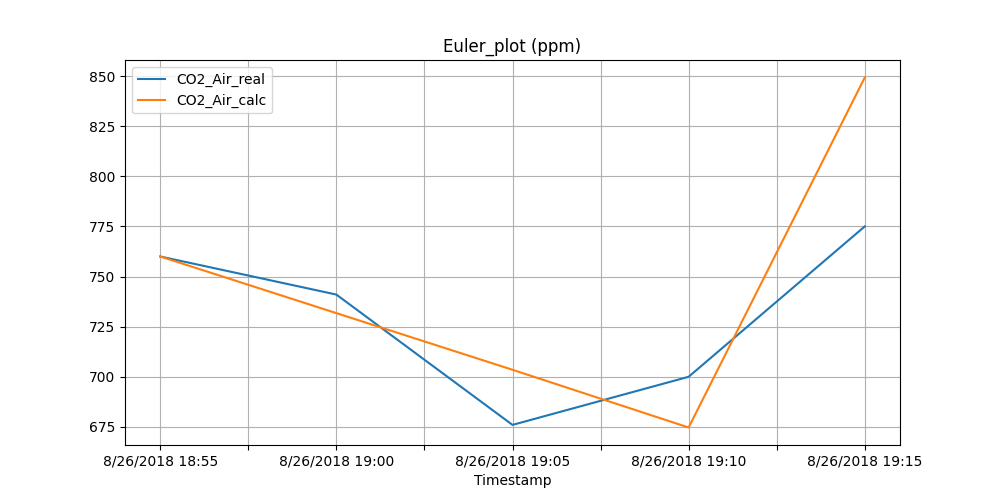
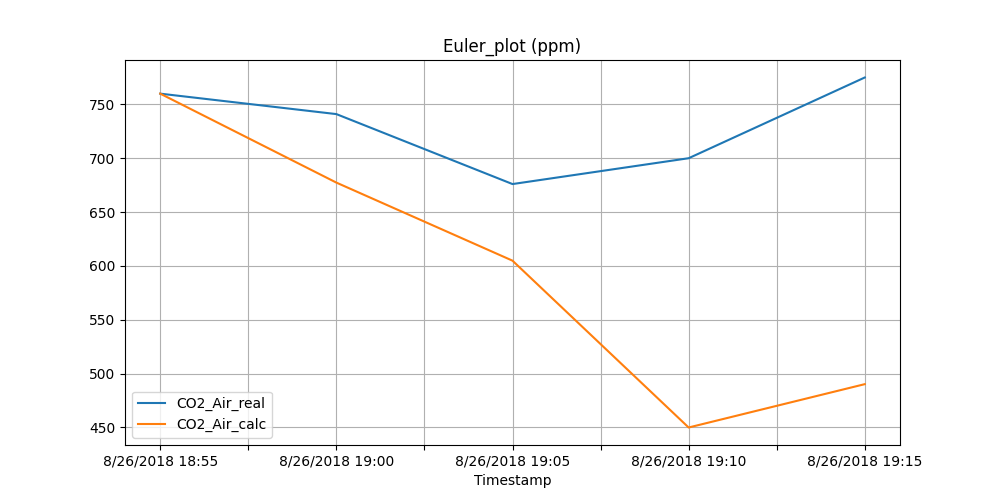
fixed update U_Roof

diff --git a/test.py b/test.py
@@ -236,6 +236,7 @@ def update(env1: Environment, row):
         env1.T_Out = row["OutsideTemp"] + 273.15
     if not pandas.isnull(row["WindSpeed"]):
         env1.v_Wind = row["WindSpeed"]
+    env1.U_Roof = (env1.Vent_Lee + env1.Vent_Wind)/2
 
 def run_Euler(env1: Environment, data_set,comparison_table,output_name):
     for i in range(5):         #for each 5 minutes
@@ -282,7 +283,17 @@ def run_rk4(env1: Environment, data_set,comparison_table,output_name):
     comparison_table.to_excel(output_name)
 
 
+
+
 if __name__ == '__main__':
+    '''env2 = Environment()
+    env2.CO2_Air = 770
+    env2.CO2_Top = 770
+    env2.T_Air = 292.05
+    env2.Rh = 0.816
+    env2.Vent_Lee = 0
+    env2.Vent_Wind = 0'''
+
     data_set = pandas.read_csv("environment.csv",usecols=["Timestamp","Temp","Rh","Co2","VentLee","VentWind","EnergyCurtain","Co2ActuationRegulation","OutsideTemp","WindSpeed"])
     data_set = data_set.iloc[216:221,]
     data_set = data_set.reset_index(drop = True)
